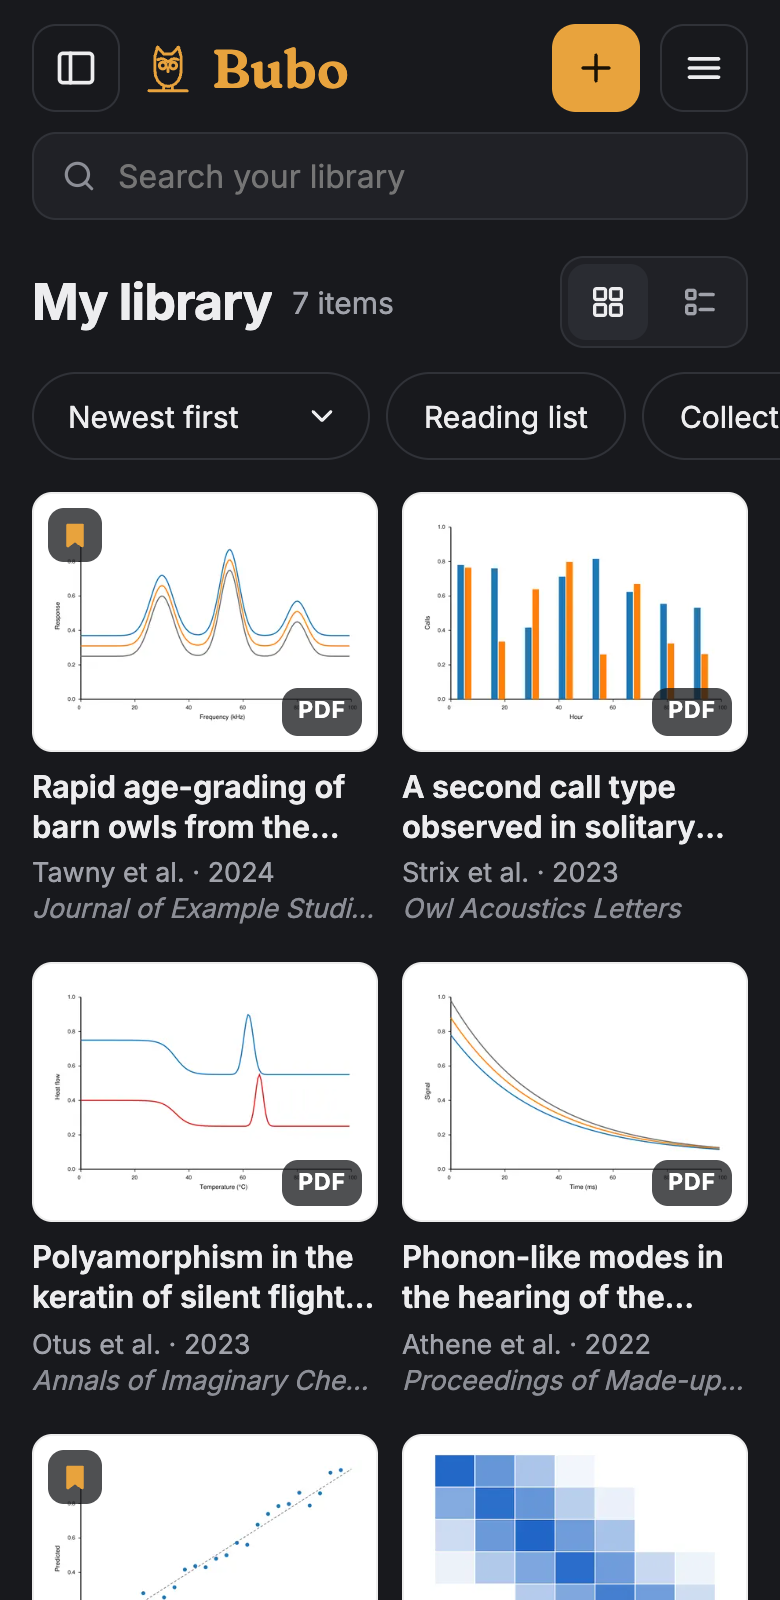
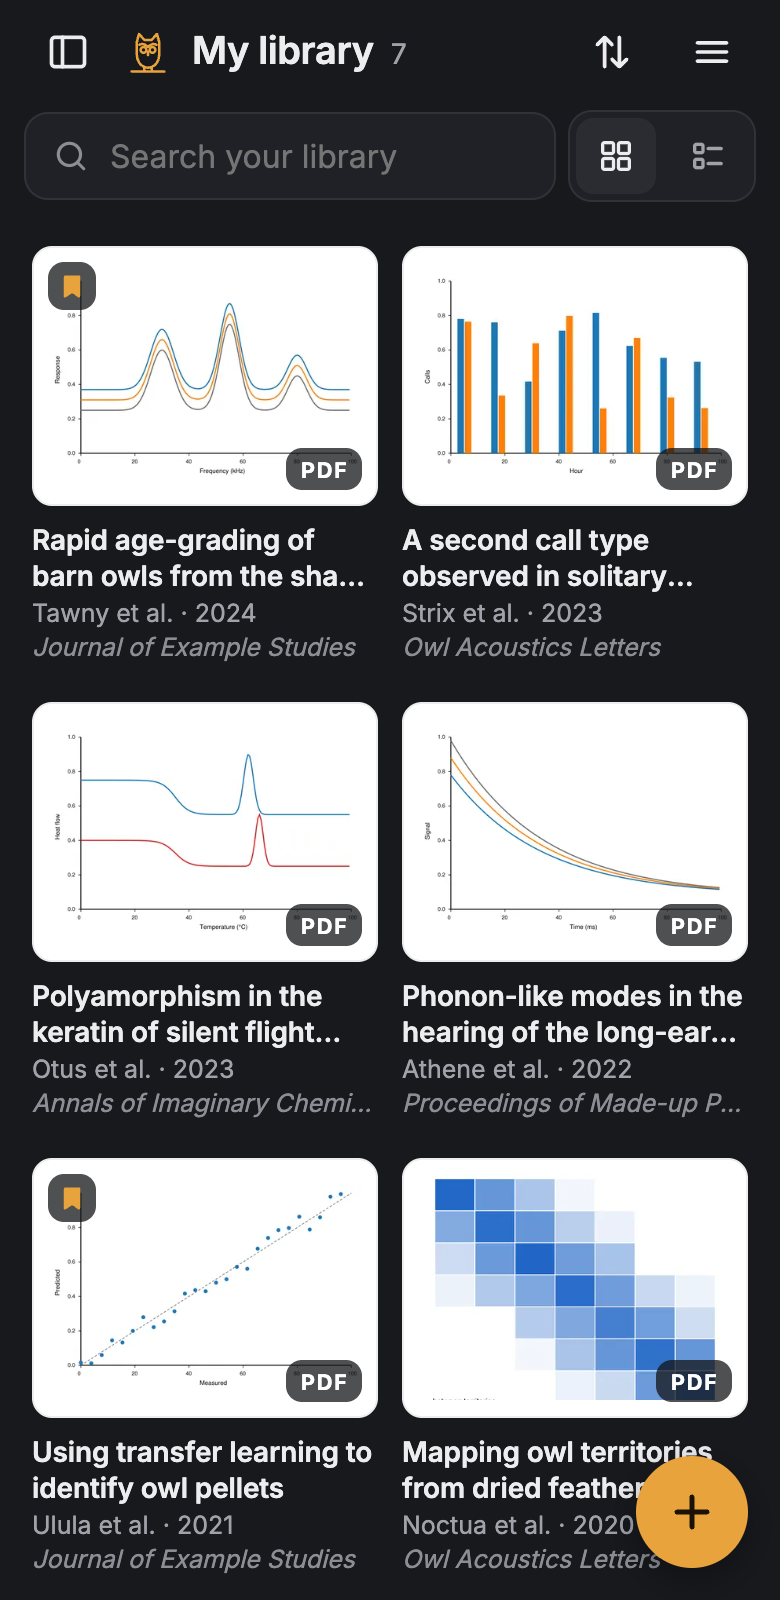
Compact the phone header and add a floating add button
On phones and upright tablets the header is two rows: the sidebar button,
the owl, the section's title and count, a sort button and the menu; then
the search box and the layout switch. The title row slides away as the
list scrolls down and comes back on the way up (instantly with reduced
motion, never while searching), and a line under the header shows there
is more above. The 'My library · N items' row, the chips and the header's
add button are gone: the order is chosen in a bottom sheet, papers are
added with a floating button, and the reading list and collections are in
the sidebar. The chosen order is now remembered on phones and the desktop.
The desktop is unchanged. Updates the website's phone screenshots.

Claude-Session: https://claude.ai/code/session_01T6s2JCJnLCEiA2GaSsgUp2

diff --git a/app/static/app.js b/app/static/app.js
@@ -31,6 +31,7 @@ const ICONS = {
   settings: '<circle cx="12" cy="12" r="3"/><path d="M19.4 15a1.7 1.7 0 0 0 .3 1.8l.1.1a2 2 0 1 1-2.8 2.8l-.1-.1a1.7 1.7 0 0 0-1.8-.3 1.7 1.7 0 0 0-1 1.5V21a2 2 0 1 1-4 0v-.1a1.7 1.7 0 0 0-1.1-1.5 1.7 1.7 0 0 0-1.8.3l-.1.1a2 2 0 1 1-2.8-2.8l.1-.1a1.7 1.7 0 0 0 .3-1.8 1.7 1.7 0 0 0-1.5-1H3a2 2 0 1 1 0-4h.1a1.7 1.7 0 0 0 1.5-1.1 1.7 1.7 0 0 0-.3-1.8l-.1-.1a2 2 0 1 1 2.8-2.8l.1.1a1.7 1.7 0 0 0 1.8.3H9a1.7 1.7 0 0 0 1-1.5V3a2 2 0 1 1 4 0v.1a1.7 1.7 0 0 0 1 1.5 1.7 1.7 0 0 0 1.8-.3l.1-.1a2 2 0 1 1 2.8 2.8l-.1.1a1.7 1.7 0 0 0-.3 1.8V9a1.7 1.7 0 0 0 1.5 1H21a2 2 0 1 1 0 4h-.1a1.7 1.7 0 0 0-1.5 1z"/>',
   "file-search": '<path d="M13 3H7a2 2 0 0 0-2 2v14a2 2 0 0 0 2 2h4"/><path d="M13 3v5h5v2"/><circle cx="16.5" cy="16.5" r="3"/><path d="M21 21l-2.4-2.4"/>',
   "rows-1": '<path d="M4 6h16M4 10h16M4 14h16M4 18h16"/>',
+  sort: '<path d="M8 20V4M4 8l4-4 4 4M16 4v16M12 16l4 4 4-4"/>',
   search: '<circle cx="11" cy="11" r="7"/><path d="m20 20-3.5-3.5"/>',
   grid: '<rect x="4" y="4" width="6.5" height="6.5" rx="1.2"/><rect x="13.5" y="4" width="6.5" height="6.5" rx="1.2"/><rect x="4" y="13.5" width="6.5" height="6.5" rx="1.2"/><rect x="13.5" y="13.5" width="6.5" height="6.5" rx="1.2"/>',
   list: '<rect x="4" y="5" width="5" height="5" rx="1"/><rect x="4" y="14" width="5" height="5" rx="1"/><path d="M12 7.5h8M12 16.5h8"/>',
@@ -74,7 +75,15 @@ const sortKey = () => (state.view.type === "toread" ? state.sortToRead : state.s
 function setSortKey(value) {
   if (state.view.type === "toread") state.sortToRead = value;
   else state.sort = value;
+  try {
+    localStorage.setItem("sort", state.sort);
+    localStorage.setItem("sortToRead", state.sortToRead);
+  } catch {}
 }
+try {
+  state.sort = localStorage.getItem("sort") || state.sort;
+  state.sortToRead = localStorage.getItem("sortToRead") || state.sortToRead;
+} catch {}
 try { state.expanded = new Set(JSON.parse(localStorage.getItem("expanded") || "[]")); } catch {}
 try {
   const saved = localStorage.getItem("density");
@@ -442,11 +451,13 @@ function authorsShort(a) {
   return `${a[0].family} et al.`;
 }
 
-function viewTitle() {
+function sectionTitle() {
   const v = state.view;
-  const base = { all: "My library", unfiled: "Unfiled items", toread: "Reading list",
+  return { all: "My library", unfiled: "Unfiled items", toread: "Reading list",
     collection: v.name, tag: `Tag: ${v.name}` }[v.type];
-  return state.q ? `${base} — “${state.q}”` : base;
+}
+function viewTitle() {
+  return state.q ? `${sectionTitle()} — “${state.q}”` : sectionTitle();
 }
 
 const fullAuthors = (a) => (a || []).map((x) => [x.given, x.family].filter(Boolean).join(" ")).join(", ");
@@ -529,6 +540,18 @@ function cell(c, i) {
 function renderItems() {
   $("#view-title").textContent = viewTitle();
   $("#count").textContent = `${state.items.length} item${state.items.length === 1 ? "" : "s"}`;
+  // A different section, search or order starts at the top, with the whole header showing
+  // (refreshes of the same list keep their place).
+  const listKey = JSON.stringify([state.view, state.q, sortKey()]);
+  if (listKey !== state.listKey) {
+    state.listKey = listKey;
+    $(".table-wrap").scrollTop = 0;
+    $(".topbar").classList.remove("collapsed", "scrolled");
+  }
+  // Phones: the section in the header, with the number of papers shown (search included).
+  $("#m-title").textContent = sectionTitle();
+  $("#m-count").textContent = String(state.items.length);
+  $("#m-count").setAttribute("aria-label", `${state.items.length} item${state.items.length === 1 ? "" : "s"}`);
   $("#empty").classList.toggle("hidden", state.items.length > 0);
   renderHead();
   const cols = LAYOUTS[state.density] || LAYOUTS.comfortable;
@@ -609,7 +632,7 @@ function cardHTML(i, mode = cardMode()) {
 }
 
 const SORT_CHOICES = [["year", "Newest first"], ["year_asc", "Oldest first"], ["added", "Recently added"],
-  ["title", "Title"], ["authors", "Author"]];
+  ["title", "Title (A–Z)"], ["authors", "Author (A–Z)"]];
 const QUEUE_CHOICES = [["to_read", "Longest on the list"], ["to_read_desc", "Latest on the list"]];
 
 let figurePoll;
@@ -623,13 +646,6 @@ function renderCards() {
   box.className = `cards ${mode}`;
   box.innerHTML = state.items.map((i) => cardHTML(i, mode)).join("");
   $$(".view-switch [data-mode]").forEach((b) => b.setAttribute("aria-pressed", String(b.dataset.mode === state.mobileView)));
-  const choices = state.view.type === "toread" ? [...SORT_CHOICES, ...QUEUE_CHOICES] : SORT_CHOICES;
-  const sort = sortKey();
-  const select = $("#m-sort");
-  select.innerHTML = choices.map(([v, label]) => `<option value="${v}">${label}</option>`).join("") +
-    (choices.some(([v]) => v === sort) ? "" : `<option value="${esc(sort)}">Custom order</option>`);
-  select.value = sort;
-  $("#m-toread").setAttribute("aria-pressed", String(state.view.type === "toread"));
   // Figures are extracted in the background after a PDF arrives: check back for them.
   if (state.items.some((i) => i.figures_status === "pending")) figurePoll = setTimeout(loadItems, 4000);
 }
@@ -673,10 +689,51 @@ $$(".view-switch [data-mode]").forEach((b) => b.addEventListener("click", () => 
   try { localStorage.setItem(MOBILE_VIEW_KEY, state.mobileView); } catch {}
   renderCards();
 }));
-$("#m-sort").addEventListener("change", (e) => { setSortKey(e.target.value); loadItems(); });
-$("#m-toread").addEventListener("click", () =>
-  setView({ type: state.view.type === "toread" ? "all" : "toread" }));
-$("#m-collections").addEventListener("click", () => openDrawer());
+
+// Phones: the order is chosen in a sheet that rises from the bottom.
+function openSortSheet() {
+  const dlg = $("#sort-sheet");
+  const choices = state.view.type === "toread" ? [...SORT_CHOICES, ...QUEUE_CHOICES] : SORT_CHOICES;
+  const sort = sortKey();
+  dlg.innerHTML = `<div class="sheet-handle" aria-hidden="true"></div>
+    <h2 id="sort-sheet-title">Sort by</h2>
+    <div class="sheet-options" role="radiogroup" aria-labelledby="sort-sheet-title">
+      ${choices.map(([v, label]) => `<button type="button" role="radio" aria-checked="${v === sort}" data-sort="${v}">
+        <span>${label}</span>${v === sort ? icon("check") : ""}</button>`).join("")}
+    </div>`;
+  dlg.showModal();
+  (dlg.querySelector('[aria-checked="true"]') || dlg.querySelector("[data-sort]")).focus();
+}
+$("#m-sort-btn").addEventListener("click", openSortSheet);
+$("#sort-sheet").addEventListener("click", (e) => {
+  const dlg = $("#sort-sheet");
+  if (e.target === dlg) return dlg.close();             // a tap outside the sheet
+  const b = e.target.closest("[data-sort]");
+  if (!b) return;
+  setSortKey(b.dataset.sort);
+  dlg.close();
+  loadItems();
+});
+$("#fab-add").addEventListener("click", () => openUploadDialog());
+
+// Phones: on the way down the list, the first header row slides away and only the search
+// row stays; on the way up it comes back. A line under the header shows there is more above.
+(() => {
+  const wrap = $(".table-wrap"), bar = $(".topbar");
+  let last = 0;
+  const expand = () => bar.classList.remove("collapsed");
+  wrap.addEventListener("scroll", () => {
+    if (!narrow.matches) return;
+    const y = wrap.scrollTop;
+    bar.classList.toggle("scrolled", y > 0);
+    if (document.activeElement === $("#search") || y <= 12) expand();
+    else if (y > last + 4) bar.classList.add("collapsed");
+    else if (y < last - 4) expand();
+    last = y;
+  }, { passive: true });
+  $("#search").addEventListener("focus", expand);
+  narrow.addEventListener("change", () => { bar.classList.remove("collapsed", "scrolled"); });
+})();
 
 $("#items-head").addEventListener("click", (e) => {
   const th = e.target.closest("th[data-sort]");

diff --git a/app/static/style.css b/app/static/style.css
@@ -733,15 +733,6 @@ input.switch:disabled { opacity: .5; cursor: default; }
     background: transparent; color: var(--muted); display: inline-flex; align-items: center; justify-content: center; }
   .view-switch button .icon { width: 20px; height: 20px; }
   .view-switch button[aria-pressed="true"] { background: var(--hover); color: var(--text); }
-  .m-chips { display: flex !important; gap: 8px; padding: 10px 16px 14px; overflow-x: auto; scrollbar-width: none; }
-  .m-chips::-webkit-scrollbar { display: none; }
-  .chip { flex: none; height: 44px; border-radius: 999px; border: 1px solid var(--border); background: transparent;
-    padding: 0 18px; display: inline-flex; align-items: center; gap: 6px; font-size: 15px; color: var(--text); }
-  .chip[aria-pressed="true"] { background: var(--accent-subtle); border-color: var(--accent); color: var(--accent-strong); }
-  .chip-select { position: relative; padding: 0; }
-  .chip-select select { appearance: none; -webkit-appearance: none; border: none; background: transparent;
-    height: calc(100% + 2px); margin: -1px; padding: 0 40px 0 18px; font-size: 15px; border-radius: 999px; color: inherit; outline-offset: 2px; }
-  .chip-select .icon { position: absolute; right: 14px; top: 50%; transform: translateY(-50%); width: 18px; height: 18px; pointer-events: none; }
 
   /* Cards instead of the table (shared rules below, outside the media query) */
   .table-wrap > table { display: none; }
@@ -1010,4 +1001,76 @@ input.switch:disabled { opacity: .5; cursor: default; }
 @media (hover: none) and (min-width: 761px) and (max-width: 1100px) {
   .pv-screen .pv-scroll { padding-left: max(16px, calc((100% - 680px) / 2)); padding-right: max(16px, calc((100% - 680px) / 2)); }
   .pv-screen .pv-strip { margin: 0; padding: 0 0 6px; scroll-padding-inline: 0; }
+}
+
+/* ==========================================================================
+   Phones: a compact two-row header and a floating add button
+   ========================================================================== */
+.fab { display: none; }
+.sheet { display: none; }
+@media (max-width: 760px), (hover: none) and (max-width: 1100px) {
+  /* Row 1: sidebar, owl, section and count, sort, menu. Row 2: search and layout. */
+  .topbar {
+    display: grid; grid-template-columns: auto auto minmax(0, 1fr) auto auto; grid-template-rows: 52px 52px;
+    column-gap: 6px; row-gap: 0; align-items: center; padding: 0 12px 8px;
+    padding-top: env(safe-area-inset-top); padding-left: max(12px, env(safe-area-inset-left));
+    padding-right: max(12px, env(safe-area-inset-right));
+    background: var(--bg); border-bottom: 1px solid transparent;
+    transition: grid-template-rows .2s ease, border-color .2s ease;
+  }
+  .topbar.scrolled { border-bottom-color: var(--sep); }
+  #side-btn { grid-area: 1 / 1; }
+  .brand { grid-area: 1 / 2; margin: 0; }
+  .brand .wordmark { display: none; }
+  .brand .logo { width: 24px; height: 24px; }
+  .m-head { grid-area: 1 / 3; display: flex !important; align-items: baseline; gap: 8px; min-width: 0; padding-left: 4px; }
+  #m-title { margin: 0; font-size: 19px; font-weight: 600; letter-spacing: -.01em; line-height: 1.2; color: var(--text);
+    min-width: 0; overflow: hidden; white-space: nowrap; text-overflow: ellipsis; }
+  #m-count { flex: none; font-size: 14px; color: var(--muted); font-variant-numeric: tabular-nums; }
+  #m-sort-btn { grid-area: 1 / 4; }
+  .topbar .menu-wrap { grid-area: 1 / 5; }
+  .topbar .icon-btn { width: 44px; height: 44px; border: none; background: transparent; }
+  .topbar .icon-btn:active { background: var(--hover); }
+  .add-btn { display: none; }
+  .search-box { grid-area: 2 / 1 / 3 / 4; }
+  .view-switch { grid-area: 2 / 4 / 3 / 6; justify-self: end; margin: 0; }
+  /* The first row slides away on the way down the list. */
+  #side-btn, .brand, .m-head, #m-sort-btn, .topbar .menu-wrap { transition: transform .2s ease, opacity .2s ease, visibility .2s; }
+  .topbar.collapsed { grid-template-rows: 0 52px; }
+  .topbar.collapsed :is(#side-btn, .brand, .m-head, #m-sort-btn, .menu-wrap) {
+    transform: translateY(-110%); opacity: 0; visibility: hidden; pointer-events: none;
+  }
+  /* Rows that the header now holds. */
+  .list-head, .m-chips { display: none !important; }
+  .cards.gallery { padding-top: 10px; }
+  /* Room for the floating button under the last paper. */
+  .table-wrap { padding-bottom: calc(88px + env(safe-area-inset-bottom)); }
+
+  .fab {
+    display: inline-flex !important; align-items: center; justify-content: center; position: fixed; z-index: 12;
+    right: calc(16px + env(safe-area-inset-right)); bottom: calc(16px + env(safe-area-inset-bottom));
+    width: 56px; height: 56px; padding: 0; border: none; border-radius: 50%;
+    background: var(--accent); color: var(--on-accent); box-shadow: 0 6px 18px rgba(0, 0, 0, .32);
+  }
+  .fab:active { background: var(--accent-hover); }
+  .fab .icon { width: 26px; height: 26px; stroke-width: 2.2; }
+  .toasts { bottom: calc(84px + env(safe-area-inset-bottom)); }
+
+  /* The sort sheet */
+  .sheet[open] { display: flex; flex-direction: column; position: fixed; inset: auto 0 0 0; margin: 0; width: 100%; max-width: none;
+    max-height: 80vh; padding: 6px 12px calc(12px + env(safe-area-inset-bottom)); border: none; border-radius: 16px 16px 0 0;
+    background: var(--panel); color: var(--text); box-shadow: 0 -8px 30px rgba(0, 0, 0, .3); animation: sheet-up .2s ease; }
+  .sheet::backdrop { background: rgba(0, 0, 0, .45); }
+  .sheet-handle { width: 36px; height: 4px; border-radius: 2px; background: var(--border); margin: 4px auto 10px; }
+  .sheet h2 { margin: 0 6px 6px; font-size: 13px; font-weight: 600; letter-spacing: .06em; text-transform: uppercase; color: var(--muted); }
+  .sheet-options { display: flex; flex-direction: column; overflow-y: auto; }
+  .sheet-options button { display: flex; align-items: center; justify-content: space-between; min-height: 52px; padding: 0 10px;
+    border: none; border-radius: 10px; background: transparent; color: var(--text); font-size: 17px; text-align: left; }
+  .sheet-options button:active { background: var(--hover); }
+  .sheet-options button[aria-checked="true"] { color: var(--accent-strong); font-weight: 600; }
+  .sheet-options .icon { width: 22px; height: 22px; }
+}
+@keyframes sheet-up { from { transform: translateY(100%); } }
+@media (prefers-reduced-motion: reduce) {
+  .topbar, .topbar *, .sheet[open] { transition: none !important; animation: none !important; }
 }

diff --git a/app/static/index.html b/app/static/index.html
@@ -32,6 +32,9 @@
     <button type="button" id="side-btn" class="icon-btn narrow-only" aria-label="Library, collections and tags"
       aria-controls="sidebar" aria-expanded="false"><i data-icon="sidebar"></i></button>
     <div class="brand"><svg class="logo" viewBox="0 0 32 32" aria-hidden="true" fill="none" stroke="currentColor" stroke-width="1.7" stroke-linecap="round" stroke-linejoin="round"><path d="M8.5 17.5V9.5L10 4l3.6 4h4.8L22 4l1.5 5.5v8c0 5.2-3.4 9-7.5 9s-7.5-3.8-7.5-9z"/><path d="M10.2 11.2Q13 9.6 16 12.6Q19 9.6 21.8 11.2"/><circle cx="13" cy="14.6" r="1.9"/><circle cx="19" cy="14.6" r="1.9"/><path d="M16 15.8v2.2"/><path d="M5 29h22M13.5 26.4V29M18.5 26.4V29"/></svg><span class="wordmark">Bubo</span></div>
+    <div class="m-head narrow-only"><h1 id="m-title"></h1><span id="m-count"></span></div>
+    <button type="button" id="m-sort-btn" class="icon-btn narrow-only" aria-label="Sort" aria-haspopup="dialog"
+      aria-controls="sort-sheet"><i data-icon="sort"></i></button>
     <div class="search-box clearable">
       <span class="search-icon narrow-only" aria-hidden="true"><i data-icon="search"></i></span>
       <input type="search" id="search" placeholder="Search titles, authors, abstracts and full text…" aria-label="Search"
@@ -42,6 +45,10 @@
     </div>
     <button type="button" id="add-btn" class="primary add-btn" title="Add papers by identifier, from PDFs or manually" aria-label="Add papers">
       <i data-icon="plus"></i><span class="add-label">Add</span></button>
+    <div class="view-switch narrow-only" role="group" aria-label="Layout">
+      <button type="button" data-mode="gallery" aria-label="Gallery" aria-pressed="true"><i data-icon="grid"></i></button>
+      <button type="button" data-mode="list" aria-label="List" aria-pressed="false"><i data-icon="list"></i></button>
+    </div>
     <div class="menu-wrap">
       <button id="menu-btn" class="icon-btn" data-tip="Settings, export and sign out" aria-label="Menu"
         aria-haspopup="menu" aria-expanded="false" aria-controls="main-menu"><i data-icon="menu"></i></button>
@@ -77,10 +84,6 @@
       <div class="list-head">
         <span id="view-title"></span>
         <span id="count" class="muted"></span>
-        <div class="view-switch narrow-only" role="group" aria-label="Layout">
-          <button type="button" data-mode="gallery" aria-label="Gallery" aria-pressed="true"><i data-icon="grid"></i></button>
-          <button type="button" data-mode="list" aria-label="List" aria-pressed="false"><i data-icon="list"></i></button>
-        </div>
         <div class="list-tools">
           <label id="sub-toggle" class="sub-toggle hidden" title="Also list the papers in this collection's subcollections">
             <input type="checkbox" class="switch" role="switch" id="include-sub"> Include subcollections</label>
@@ -99,13 +102,6 @@
             <button type="button" class="icon-btn" data-density="figures" data-tip="List with figures" aria-label="List with figures"><i data-icon="list"></i></button>
           </div>
         </div>
-      </div>
-      <!-- Phones: layout switch and quick filters (see renderCards in app.js). -->
-      <div class="m-chips narrow-only">
-        <label class="chip chip-select"><span class="sr-only">Order</span>
-          <select id="m-sort"></select><i data-icon="chevron-down"></i></label>
-        <button type="button" class="chip" id="m-toread" aria-pressed="false">Reading list</button>
-        <button type="button" class="chip" id="m-collections" aria-controls="sidebar">Collections</button>
       </div>
       <div class="table-wrap">
         <table id="items-table">
@@ -129,6 +125,8 @@
     </section>
   </main>
   <div id="side-backdrop" class="side-backdrop" hidden></div>
+  <!-- Phones: add papers from a floating button. -->
+  <button type="button" id="fab-add" class="fab narrow-only" aria-label="Add paper"><i data-icon="plus"></i></button>
   <!-- Phones: the paper screen, /paper/<id> (paper.js). -->
   <section id="paper" class="paper-view hidden" aria-label="Paper"></section>
 </div>
@@ -166,6 +164,7 @@
 <dialog id="refresh-dialog" class="dialog" aria-labelledby="refresh-title"></dialog>
 <dialog id="pv-dialog" class="dialog dialog-narrow" aria-labelledby="pv-dialog-title"></dialog>
 <dialog id="lightbox" class="lightbox" aria-labelledby="lightbox-title"></dialog>
+<dialog id="sort-sheet" class="sheet" aria-labelledby="sort-sheet-title"></dialog>
 <input type="file" id="attach-input" accept="application/pdf,.pdf" hidden>
 <input type="file" id="supp-input" multiple hidden>
 

diff --git a/README.md b/README.md
@@ -35,13 +35,16 @@ them from the browser.
   **Edit details** opens the form with every field.
 - **On phones and tablets held upright** (screens up to 760 px, and touch screens up to
   1100 px such as an iPad in portrait) the library is a gallery of figure cards or a list with
-  thumbnails, and each paper has its own screen at `/paper/<id>`: a carousel of its figures,
+  thumbnails under a compact header (the section and its count, a sort button that opens a
+  sheet, the search box and the layout switch; the top row slides away as you scroll down),
+  with a floating button to add papers. Each paper has its own screen at `/paper/<id>`: a carousel of its figures,
   the abstract, details with a copyable DOI, collections, tags, notes saved as you type and
   related papers, with buttons to open the PDF, cite, file and share it. Papers without figures
   get a cover coloured from the journal's name. Bubo can be added to the home screen, where it
   opens like an app with the owl as its icon. On a computer the table stays as it is.
 - **Find PDF** for papers without one (the dimmed icon in the PDF column, or the button in the
   item pane): looks on arXiv, Unpaywall (with `BUBO_CONTACT_EMAIL` set) and the publisher's page.
+- **The order you choose** (by year, date added, title or author) is remembered between visits.
 - **Library table** with a comfortable layout (authors and venue under the title) or a compact
   one, or the papers shown by their figures: a **gallery** of cards or a **list with figures**
   (the buttons next to the list's title; these layouts have an Order menu instead of column
